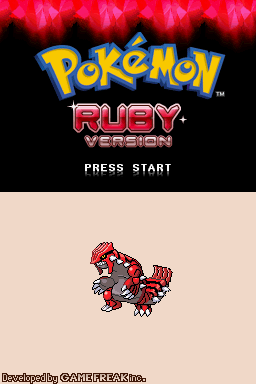
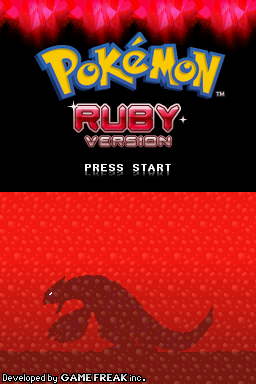
Title GIFs: Sapphire's/Ruby's own title scene (Kyogre/Groudon behind the rippling sea), replacing the battle-style idle

diff --git a/screenshots/sapphire/captions.md b/screenshots/sapphire/captions.md
@@ -1,6 +1,6 @@
 # Pokémon Sapphire NDS: screenshot captions
 
-1. `01_title_sapphire.png` and `01_title_sapphire.gif`: The title screen, with Kyogre idling on the touch screen (the GIF is one full loop of the animation).
+1. `01_title_sapphire.png` and `01_title_sapphire.gif`: The title screen. The touch screen shows Sapphire's own title scene: Kyogre behind the rippling sea, with rising bubbles and its markings glowing red (the GIF is one full loop).
 2. `02_sootopolis_city.png`: Sootopolis City: the Gym on its island in the crater lake, with animated water.
 3. `03_fortree_city.png`: Fortree City: log tree houses on stilts among the trees.
 5. `05_route113_ash.png`: Route 113: volcanic ash falls over the ash-covered grass and trees.

diff --git a/screenshots/ruby/captions.md b/screenshots/ruby/captions.md
@@ -1,6 +1,6 @@
 # Pokémon Ruby NDS: screenshot captions
 
-1. `01_title_ruby.png` and `01_title_ruby.gif`: The title screen, with Groudon idling on the touch screen (the GIF is one full loop of the animation).
+1. `01_title_ruby.png` and `01_title_ruby.gif`: The title screen. The touch screen shows Ruby's own title scene: Groudon behind the rippling sea, with rising bubbles and its markings glowing (the GIF is one full loop).
 2. `02_sootopolis_city.png`: Sootopolis City: the Gym on its island in the crater lake, with animated water.
 3. `03_fortree_city.png`: Fortree City: log tree houses on stilts among the trees.
 5. `05_route113_ash.png`: Route 113: volcanic ash falls over the ash-covered grass and trees.
